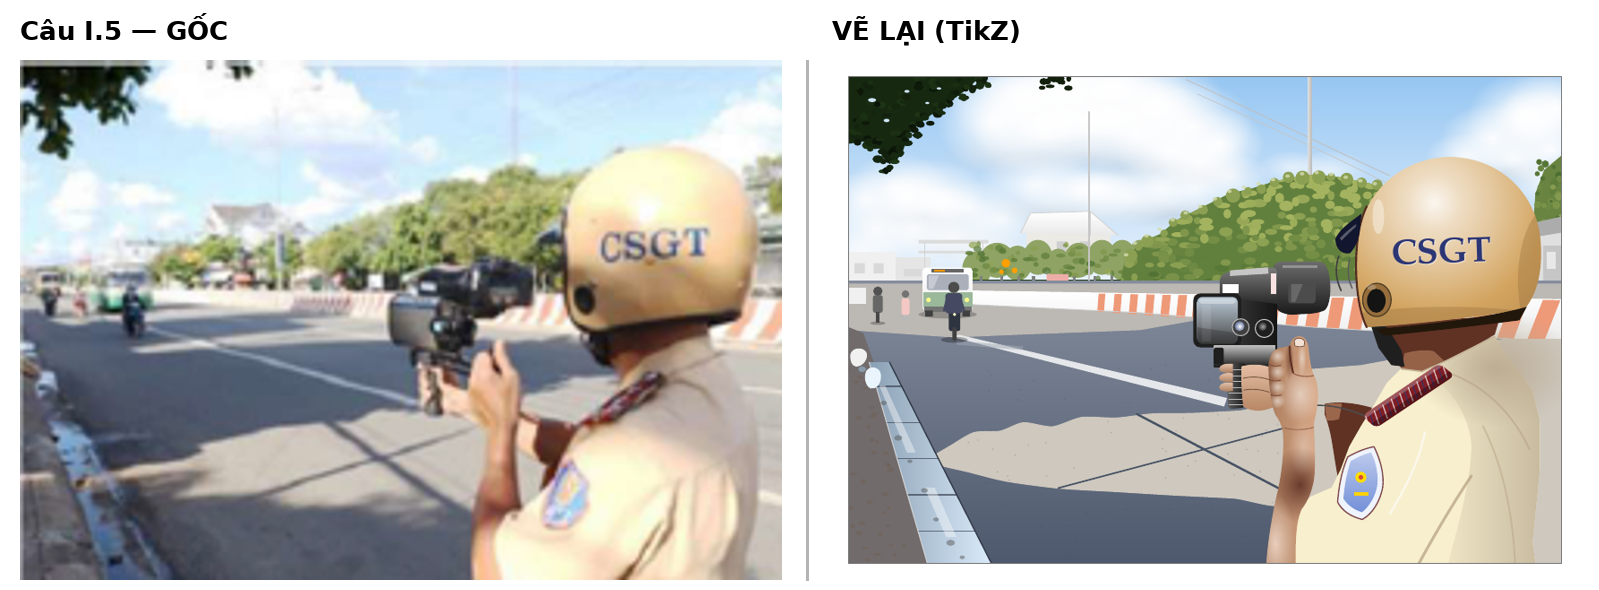
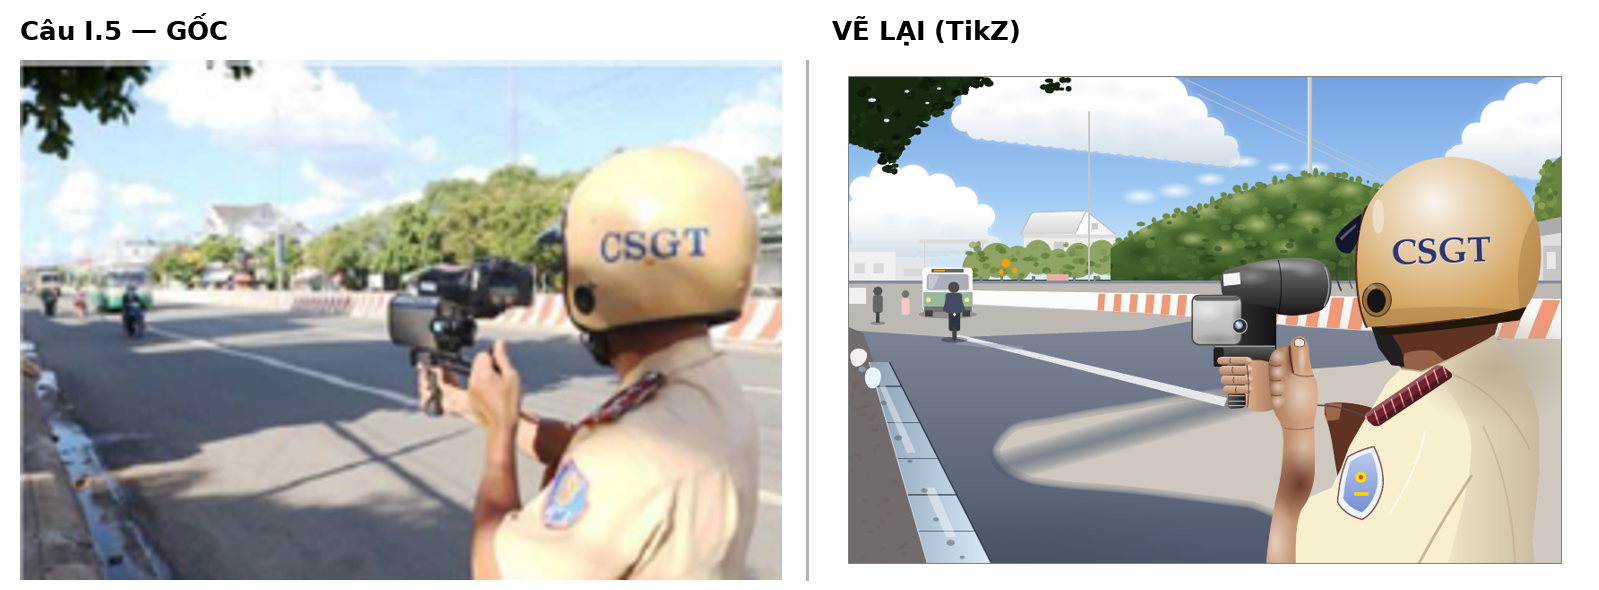
Lưu tạm: Hải Phòng SGD Lần 2 I.5 đang sửa vòng 2 (chưa soát)
Claude-Session: https://claude.ai/code/session_01Mieh5KpSQ7eqWTJmHU52fM

diff --git a/de/VatLi2026-HaiPhong-SoGD-Lan2/VatLi2026-HaiPhong-SoGD-Lan2.tex b/de/VatLi2026-HaiPhong-SoGD-Lan2/VatLi2026-HaiPhong-SoGD-Lan2.tex
@@ -32,6 +32,15 @@
 \definecolor{HPhaido}{RGB}{128,30,36}
 % mũ bảo hiểm bóng (I.5): đổ bóng tròn nhiều nấc, tâm là điểm sáng, gọi \shade[shading=HPhaimuSh] (tâm) circle (bán kính);
 \pgfdeclareradialshading{HPhaimuSh}{\pgfpoint{0bp}{0bp}}{color(0bp)=(white!90!HPhaimu); color(4bp)=(white!62!HPhaimu); color(9bp)=(HPhaimu!62!white); color(16bp)=(HPhaimu); color(28bp)=(HPhaimu!82!brown!86!black); color(50bp)=(HPhaimu!55!brown!62!black)}
+% mây tích (I.5): \HPhaimaytich{y đỉnh}{y đáy}{x/y/r,...}: các bọng tròn tâm (x,y) bán kính r (toạ độ điểm ảnh) hợp thành đám mây trắng, quầng mờ ra trời, bọng lớn có bóng nhẹ, đáy xám xanh nhạt
+\newcommand{\HPhaimaytich}[3]{%
+	\foreach \x/\y/\r in {#3}{\fill[white,path fading=HPhaimo,opacity=0.5] (\x,\y) circle (1.5*\r);}%
+	\begin{scope}
+		\clip foreach \x/\y/\r in {#3}{(\x,\y) circle (1.06*\r)};
+		\fill[white] (-20,{#1-12}) rectangle (270,{#2+12});
+		\foreach \x/\y/\r in {#3}{\pgfmathsetmacro{\HPhaiop}{(\r>5.9)*0.3}\fill[gray!22!HPhaitroi!35!white,path fading=HPhaimo,opacity=\HPhaiop] (\x+0.35*\r,\y+0.6*\r) ellipse[x radius=0.9*\r,y radius=0.5*\r];}%
+		\fill[gray!35!HPhaitroi!48!white,path fading=north] (-20,{#1+0.5*(#2-#1)}) rectangle (270,{#2+1});
+	\end{scope}}
 % màu câu I.14: thảm vải xám tím, da tay, màn hình (hồng tím, đỏ cam, xanh lam)
 \definecolor{HPhaitham}{RGB}{138,124,134}
 \definecolor{HPhaitay}{RGB}{238,204,194}
@@ -118,15 +127,14 @@
 				\pgfmathsetseed{1405}
 				\begin{scope}
 					\clip (0,0) rectangle (245,167);
-					% ===== trời, mây (toạ độ theo điểm ảnh gốc 245 x 167, trục y hướng xuống)
-					\shade[top color=HPhaitroi,bottom color=HPhaitroi!8!white] (0,0) rectangle (245,82);
-					% mây: các vệt trắng mờ dần ra mép (đáy mây xám xanh nhạt)
-					\foreach \x/\y/\a/\b in {58/27/13/4,82/25/14/4,104/30/12/4,122/33/9/3,24/49/11/3.5,40/57/10/3,110/46/12/3,70/46/14/3,228/32/10/3}
-						{\fill[HPhaitroi!60!gray!50!white,path fading=HPhaimo,opacity=0.8] (\x,\y) ellipse[x radius=2*\a,y radius=2*\b];}
-					\foreach \x/\y/\a/\b/\o in {50/15/10/9/1,60/7/13/10/1,75/3/14/10/1,91/3/13/9/1,105/9/12/9/1,117/17/11/8/1,127/23/8/6/1,66/18/12/8/1,83/15/13/8/1,99/19/12/7/1,111/25/10/6/1,121/29/8/4.5/0.9,64/37/10/6/0.85,80/39/11/6/0.85,95/41/10/5/0.8,107/38/9/5/0.8,119/38/9/5/0.8,131/34/7/4/0.75,6/42/7/5/0.9,17/38/9/6/0.9,29/40/9/6/0.9,41/45/8/5/0.85,52/49/7/4/0.8,9/52/9/6/0.85,22/52/10/6/0.85,35/55/9/5/0.8,47/58/8/4/0.75,4/60/7/4/0.75,212/27/7/4/0.85,221/21/9/6/0.95,232/14/10/8/1,243/11/9/8/1,241/25/9/6/0.95,228/28/8/4/0.85,240/36/8/4/0.8,152/31/6/3/0.6,165/32/7/3.5/0.6}
-						{\fill[white,path fading=HPhaimo,opacity=\o] (\x,\y) ellipse[x radius=2*\a,y radius=2*\b];}
-					\foreach \x/\y/\a/\b in {62/8/9/6,77/5/10/6,92/5/9/5,106/11/8/5,72/15/9/4,90/14/9/4,20/41/6/4,32/43/6/3,235/14/7/5,85/38/7/3}
-						{\fill[white,path fading=HPhaimo] (\x,\y) ellipse[x radius=2*\a,y radius=2*\b];}
+					% ===== trời: xanh đậm ở trên, nhạt dần về chân trời (toạ độ theo điểm ảnh gốc 245 x 167, trục y hướng xuống)
+					\shade[top color=HPhaitroi!62!VLxanh,bottom color=HPhaitroi!6!white,middle color=HPhaitroi!92!white] (0,0) rectangle (245,82);
+					% mây tích: đám lớn trên giữa, đám bên trái, đám bên phải, vài cụm nhỏ
+					\HPhaimaytich{-10}{31}{40/14/4.5,45/8/6,52/3/7.5,62/0/8.5,74/-2/9,87/-1/9,99/2/8,109/7/7,117/13/6,124/19/4.8,130/24/3.6,49/13/5.5,59/11/7,71/9/8,84/9/8.5,96/12/7.5,107/16/6.5,116/20/5,62/17/5,74/16/6,86/16/6.5,98/18/6,108/21/5.5,44/18.1/3.2,48/18.5/3.2,51.9/19/3.2,55.9/19.4/3.2,59.8/19.8/3.2,63.8/20.3/3.2,67.7/20.7/3.2,71.7/21.1/3.2,75.6/21.6/3.2,79.6/22/3.2,83.5/22.4/3.2,87.5/22.9/3.2,91.5/23.3/3.2,95.4/23.7/3.2,99.4/24.1/3.2,103.3/24.6/3.2,107.3/25/3.2,111.2/25.4/3.2,115.2/25.9/3.2,119.1/26.3/3.2,123.1/26.7/3.2,127/27.2/3.2,131/27.6/3.2,67.5/17.0/0.8,120.9/23.2/1.2,125.7/23.8/1.0}
+					\HPhaimaytich{30}{64}{5/39/4.5,13/35/5.5,22/36/5.5,31/39/5.5,39/43/5,46/48/4,3/48/5.5,12/45/6.5,23/46/6.5,34/49/6,43/53/4.5,6/54/5,16/54/5.5,27/55/5.5,38/56/4.5,-2/60.8/3,1.9/60.5/3,5.8/60.3/3,9.8/60.1/3,13.7/59.8/3,17.6/59.6/3,21.5/59.4/3,25.5/59.1/3,29.4/58.9/3,33.3/58.7/3,37.2/58.4/3,41.2/58.2/3,45.1/58/3,49/57.8/3,17.4/40.2/1.6,41.0/48.2/1.4,47.5/54.8/0.6,32.9/55.3/0.6,10.6/56.8/0.7,10.9/57.0/0.6}
+					\HPhaimaytich{0}{37}{210/27/3.5,216/21/5,224/15/6.5,233/10/7.5,243/8/8,221/26/5,231/22/6.5,242/20/7.5,236/29/5,208/27.8/3,211.9/28.4/3,215.8/28.9/3,219.7/29.6/3,223.6/30.1/3,227.5/30.8/3,231.4/31.4/3,235.3/32/3,239.2/32.5/3,243.1/33.1/3,247/33.8/3,211.1/23.4/0.6,226.3/27.4/0.9,226.0/27.8/0.6}
+					\foreach \x/\y/\a/\b in {100/41/7/3,112/39/7/3,124/35/6/2.6,136/29/6/2.4,148/31/5/2,160/31/6/2.2}
+						{\fill[white,path fading=HPhaimo,opacity=0.85] (\x,\y) ellipse[x radius=\a,y radius=\b];}
 					% dây điện, cột điện
 					\draw[gray!50,line width=0.3pt] (116,1) .. controls (140,12) and (160,22) .. (186,34);
 					\draw[gray!45,line width=0.25pt] (120,6) .. controls (142,16) and (162,25) .. (186,37);
@@ -137,11 +145,14 @@
 					\fill[gray!30] (2,64) rectangle (5.5,67.5) (8.5,64) rectangle (12,67.5) (19,66) rectangle (25,68.5);
 					\fill[gray!28] (24,56) rectangle (48,57.2) (24,59.8) rectangle (48,60.6);
 					\draw[gray!35,line width=0.3pt] (26,57.2)--(26,72) (46,57.2)--(46,72);
-					% nhà mái trắng
-					\fill[HPhaiao!50!gray!30!white] (61,53) rectangle (90,64);
-					\fill[gray!38] (64,56.5) rectangle (67.5,60.5) (71.5,56.5) rectangle (75,60.5) (79.5,56.5) rectangle (83,60.5);
-					\shade[top color=white,bottom color=gray!18] (59,53.6)--(62.5,46.8)--(83,46.2)--(92.5,54.4)--(83,54.4)--cycle;
-					\draw[gray!35,line width=0.3pt] (59,53.6)--(62.5,46.8)--(83,46.2)--(92.5,54.4) (83,46.2)--(83,54.4);
+					% nhà mái trắng có đầu hồi
+					\fill[HPhaiao!40!gray!22!white] (60,53.8) rectangle (91.6,63.5);
+					\fill[gray!40] (63.5,56.6) rectangle (67,60.6) (70.5,56.6) rectangle (74,60.6) (83.6,56.6) rectangle (87.2,60.6);
+					\shade[top color=white!94!gray,bottom color=gray!34] (63,46.6)--(81.6,46)--(77.8,54)--(59,54.2)--cycle;
+					\shade[left color=white,right color=gray!14] (81.6,46)--(91.8,54.2)--(77.8,54)--cycle;
+					\fill[gray!42] (83.4,50.4) rectangle (85.6,52.4);
+					\draw[gray!55,line width=0.3pt] (59,54.2)--(63,46.6)--(81.6,46)--(91.8,54.2) (81.6,46)--(77.8,54);
+					\fill[gray!35,opacity=0.6] (59,54.2)--(91.8,54.2)--(91.6,55.4)--(59.4,55.4)--cycle;
 					% hàng cây xa bên trái
 					\foreach \x/\y/\a/\b in {44/66/5/6,51/63/6/6,58/64/5/6,65/62/5/6,72/64/4/5,79/63/5/6,87/62/5/6,94/63/5/7,100/62/4/6}
 						{\fill[HPhaila!40!HPhailasang!85!white] (\x,\y) ellipse[x radius=\a,y radius=\b];}
@@ -152,16 +163,25 @@
 					\foreach \x in {45,52,58,63,70,77,84,90,96,102}{\fill[black!50] (\x,68.5) rectangle (\x+1,74);}
 					\fill[VLdo!45!white] (68,67.8) rectangle (75.5,72) (100,68.5) rectangle (105,72);
 					\fill[white!90!gray] (114,67.5) rectangle (122,73);
-					% khối cây lớn phía sau súng
+					% dải cây rậm phía sau súng (từ giữa ảnh tới sau mũ): mép trên lởm chởm, xanh đậm có mảng sáng
+					\pgfmathsetseed{2207}
 					\begin{scope}
-						\clip (92,76)--(95,63)--(100,57)--(107,54)--(113,49)--(119,46)--(125,43)--(131,40)--(138,38.5)--(146,36)--(153,34.5)--(161,33.5)--(169,34.5)--(176,36)--(186,38)--(186,76)--cycle;
-						\fill[HPhaila!60!HPhailasang] (90,30) rectangle (188,77);
-						\foreach \i in {1,...,340}{\pgfmathsetmacro{\px}{91+96*rnd}\pgfmathsetmacro{\py}{32+45*rnd}
-							\pgfmathtruncatemacro{\t}{max(5,min(95,118-1.9*(\py-33)+50*(rnd-0.5)))}
-							\fill[HPhailasang!\t!HPhaila] (\px,\py) ellipse[x radius=1.1+1.5*rnd,y radius=0.8+1*rnd];}
+						\clip (90,77)--(90,59)--(93,57)--(96,55.4)--(100,52.6)--(104,50.6)--(108,48.8)--(112,47.6)--(116,46.6)--(120,45.6)--(124,43.6)--(128,41.6)--(132,40.2)--(136,39.2)--(140,38.2)--(145,36.8)--(150,35.4)--(155,34.2)--(160,33.6)--(165,34)--(170,35)--(175,36.4)--(180,38)--(188,40)--(188,77)--cycle;
+						\fill[HPhaila!72!HPhailasang] (88,30) rectangle (190,78);
+						\foreach \x/\y/\a/\b in {100/60/8/5,116/56/9/5,132/52/9/6,148/48/10/6,164/46/9/6,180/50/8/6,108/70/9/4,126/68/10/4,146/66/10/5,166/64/10/5,140/58/6/4,158/57/6/4,122/62/6/3.5}
+							{\fill[HPhaila!55!black,path fading=HPhaimo,opacity=0.55] (\x,\y) ellipse[x radius=\a,y radius=\b];}
+						\foreach \i in {1,...,320}{\pgfmathsetmacro{\px}{89+100*rnd}\pgfmathsetmacro{\py}{32+46*rnd}\pgfmathtruncatemacro{\t}{20+35*rnd}
+							\fill[HPhailasang!\t!HPhaila,opacity=0.7] (\px,\py) ellipse[x radius=0.9+1.4*rnd,y radius=0.7+0.9*rnd];}
+						\foreach \x/\y/\a/\b in {103/54/6/3.5,113/50/7/4,124/47/7/4,136/43/8/4.5,149/39/9/4.5,162/37/8/4,174/40/6/3.5,120/57/6/3,142/52/7/3.5,160/50/7/3.5,131/60/5/3,152/60/5/3,176/54/5/3.5}
+							{\fill[HPhailasang!82!white,path fading=HPhaimo,opacity=0.8] (\x-2,\y-1.5) ellipse[x radius=\a,y radius=\b];}
+						\foreach \i in {1,...,45}{\pgfmathsetmacro{\px}{89+100*rnd}\pgfmathsetmacro{\py}{44+32*rnd}
+							\fill[HPhaila!75!black,opacity=0.55] (\px,\py) ellipse[x radius=0.7+0.9*rnd,y radius=0.5+0.6*rnd];}
+						\fill[HPhaila!45!black,path fading=north,opacity=0.6] (88,56) rectangle (190,78);
 					\end{scope}
-					\foreach \x/\y in {96/62,99/58,103/55.5,107.5/53.2,112/50,116.5/47.6,121.5/45.4,126.5/42.8,131.5/40.2,136.5/38.8,141.5/37.6,146.5/36.2,151.5/35,156.5/34.2,161.5/33.8,166.5/34.4,171.5/35.4,176.5/36.6,181.5/37.6}
-						{\fill[HPhailasang!75!HPhaila] (\x+2*rnd-1,\y+1.5*rnd-0.5) circle (1.2+1.3*rnd);\fill[HPhailasang!50!white,opacity=0.8] (\x-0.7,\y-0.9) ellipse[x radius=0.8,y radius=0.6];}
+					% mép trên lởm chởm: chùm lá nhô lên khỏi tán
+					\foreach \x/\y in {93/56.6,97/54.4,101/51.8,105/50,109/48.4,113/47.2,117/46.2,121/45,125/43,129/41.2,133/39.8,137/38.8,141/37.8,146/36.4,151/35,156/34,161/33.6,166/34.2,171/35.2,176/36.6,181/38.2,186/39.4}
+						{\fill[HPhaila!50!HPhailasang] (\x+1.6*rnd-0.8,\y-0.3-1.1*rnd) ellipse[x radius=0.7+0.9*rnd,y radius=0.8+1*rnd];
+						 \fill[HPhaila!58!HPhailasang] (\x+1.6+1.2*rnd,\y-0.1-0.7*rnd) circle (0.5+0.5*rnd);}
 					% cây, nhà bên phải mũ
 					\fill[HPhaila!55!HPhailasang] (235,54)--(236,40)--(239,32)--(245,27)--(245,54)--cycle;
 					\foreach \i in {1,...,30}{\pgfmathsetmacro{\px}{236+9*rnd}\pgfmathsetmacro{\py}{29+24*rnd}\pgfmathtruncatemacro{\t}{20+60*rnd}\fill[HPhailasang!\t!HPhaila] (\px,\py) circle (0.6+0.9*rnd);}
@@ -172,6 +192,7 @@
 					% cột đèn bên đường
 					\draw[gray!45,line width=0.5pt] (82.6,12)--(82.6,74);
 					% tán cây góc trái phía trên
+					\pgfmathsetseed{1406}
 					\fill[HPhaila!45!black] (0,0)--(45,0)--(41,4)--(34,9)--(27,14)--(21,19)--(18,27)--(14,30)--(11,25)--(6,22)--(0,23)--cycle;
 					\foreach \x/\y in {1/21,5/22,9/23.5,12/27,14/30.5,16/26,18/21.5,22/18,26/14.5,30/11.5,34/8.5,38/5.5,42/2.5,46/1,30/3,20/7,9/10,4/15,25/2,36/1,15/12,6/4}
 						{\foreach \j in {1,...,7}{\pgfmathtruncatemacro{\t}{22+38*rnd}\fill[HPhaila!\t!black] (\x+4.4*rnd-2.2,\y+4.4*rnd-2.2) ellipse[x radius=0.8+1.1*rnd,y radius=0.6+0.8*rnd];}}
@@ -189,12 +210,16 @@
 					\end{scope}
 					\draw[gray!40,line width=0.3pt] (38,78)--(100,81)--(160,86)--(245,91);
 					\draw[white,line width=0.4pt] (38,73.5)--(100,74.5)--(160,75.5)--(245,76.5);
-					% vệt nắng, bóng cây trên mặt đường
-					\fill[HPhaiduongsang] plot[smooth cycle,tension=0.45] coordinates {(28,131) (35,126.5) (43,122) (52,121.5) (60,118.6) (70,120) (80,116.8) (92,117) (104,115.6) (118,115.4) (134,114.6) (152,113.4) (152,146) (132,144.8) (112,143.8) (92,142.6) (72,141.4) (54,139) (41,135.8) (31,133.4)};
+					% vệt nắng giữa đường (mép mềm), dải bóng cây rộng chéo qua vệt nắng (mép mềm), mảng bóng lớn góc dưới trái
 					\fill[HPhaiduongsang] (150,101)--(176,99)--(225,90)--(245,90)--(245,167)--(150,167)--cycle;
-					\draw[HPhaiduong!85!black,line width=0.8pt] (99,115.8)--(152,143.5);
-					\draw[HPhaiduong!85!black,line width=0.55pt] (72,141.2)--(152,120);
-					\foreach \i in {1,...,70}{\fill[HPhaiduong!70!black,opacity=0.2] (40+110*rnd,92+75*rnd) circle (0.3);}
+					\foreach \w in {0.4,0.8,...,6}
+						{\draw[HPhaiduongsang,line width=\w pt,opacity=0.12] plot[smooth cycle,tension=0.5] coordinates {(52,128) (58,121.4) (70,119.2) (82,116.8) (96,114.6) (110,112.2) (124,110) (138,108.4) (154,107.4) (154,148) (138,145.6) (122,143.6) (106,141.6) (90,140) (76,139) (63,137.2) (55,133.4)};}
+					\fill[HPhaiduongsang] plot[smooth cycle,tension=0.5] coordinates {(52,128) (58,121.4) (70,119.2) (82,116.8) (96,114.6) (110,112.2) (124,110) (138,108.4) (154,107.4) (154,148) (138,145.6) (122,143.6) (106,141.6) (90,140) (76,139) (63,137.2) (55,133.4)};
+					\begin{scope}
+						\clip plot[smooth cycle,tension=0.5] coordinates {(49,128) (56,119) (70,116.4) (82,114) (96,111.8) (110,109.4) (124,107.2) (138,105.6) (157,104.4) (157,151) (138,148.6) (122,146.6) (106,144.6) (90,143) (75,142) (61,140) (51,135)};
+						\foreach \w in {1,2,...,12}{\draw[HPhaiduong,line width=\w pt,opacity=0.075] (38,138) .. controls (78,127) and (114,117) .. (152,106);}
+					\end{scope}
+					\fill[HPhaiduong!78!black,path fading=HPhaimo,opacity=0.45] (60,167) ellipse (64 and 24);
 					% vạch sơn
 					\fill[white!85!HPhaiduong] (35,89.2)--(38,88.6)--(130,110.3)--(129,113.2)--cycle;
 					\fill[white!45!HPhaiduong,opacity=0.5] (37,90.6)--(60,92.6)--(59.5,93.8)--(37,92)--cycle;
@@ -238,38 +263,39 @@
 					\fill[VLdo!30!white,rounded corners=0.6pt] (18.1,76) rectangle (20.9,81.8);
 					\fill[black!55] (19.5,74.6) circle (1.3);
 					% ===== súng bắn tốc độ
-					% hộp lớn phía sau
-					\shade[top color=black!58,bottom color=black!90,rounded corners=2.5pt] (146,63.5)--(160,63.4) .. controls (166.2,64) and (166.6,79) .. (161,81.2)--(150,81.8)--(146,79.2)--cycle;
-					\fill[gray!60!black,rounded corners=1pt] (151,70.6) rectangle (160.4,77.8);
-					\fill[white,opacity=0.16] (152,71.2)--(156,71.2)--(153.5,77.2)--(152,77.2)--cycle;
-					\fill[white,opacity=0.3] (149,64.6) rectangle (161,65.8);
-					% ống ngắm, khối trên
-					\shade[top color=black!52,bottom color=black!88,rounded corners=1.5pt] (127.5,68.5)--(131,66.6)--(144,65.5)--(147.2,65.5)--(147.2,79.6)--(135,76.6)--(127.5,75.6)--cycle;
-					\fill[gray!45!white] (131,66.5)--(144,65.4)--(144.3,67.6)--(131,68.4)--cycle;
-					\fill[white] (128.4,71.2) rectangle (134,74.4);
-					\fill[white!85!VLdo] (145.2,67.5) rectangle (146.8,74.6);
-					% thân giữa
-					\shade[left color=black!78,right color=black!92] (131,76)--(147.2,78)--(147.2,93.6)--(131,93.6)--cycle;
-					% đầu phát (mặt trước)
-					\fill[black!88,rounded corners=2.6pt] (118.4,74.4) rectangle (134.9,92.9);
-					\shade[top color=gray!50!HPhaitroi!60!white,bottom color=gray!55!black,rounded corners=2pt] (119.7,75.6) rectangle (133.7,91.7);
-					\fill[white,opacity=0.35,rounded corners=1pt] (120.4,76.2) rectangle (133,77.9);
-					\fill[white,opacity=0.1] (121.5,78.2) rectangle (124.6,91);
-					\fill[black,opacity=0.2] (119.7,86)--(133.7,88)--(133.7,91.7)--(119.7,91.7)--cycle;
-					% ống kính, núm
-					\filldraw[fill=black!75,draw=gray!55,line width=0.35pt] (134.7,86) circle (2.9);
-					\shade[inner color=white,outer color=VLxanh!40!gray] (134.3,85.6) circle (1.7);
-					\filldraw[fill=black!88,draw=gray!45,line width=0.35pt] (142.8,86.4) circle (3.1);
-					\shade[inner color=gray!70,outer color=black!80] (142.2,85.7) circle (1.5);
+					% vỏ ống ngắm đen lớn trên nóc (bo tròn, kéo tới sát mũ)
+					\shade[top color=black!52,bottom color=black!92] (128,72) .. controls (127.4,69.6) and (127.8,67.4) .. (129.6,66.4) .. controls (134,65.2) and (138,64) .. (142,63.2) .. controls (148,62.2) and (154,61.8) .. (159,62.4) .. controls (163,63) and (165.4,65.6) .. (165.8,69.4) .. controls (166.2,73.6) and (165.4,77.6) .. (162.6,80) .. controls (158,82) and (152,82.4) .. (147,81.4) .. controls (141,80) and (135,78.4) .. (130.4,77) .. controls (128.6,76.2) and (128,74.4) .. (128,72)--cycle;
+					\fill[white,path fading=HPhaimo,opacity=0.45] (148,64.6) ellipse (13 and 2.2);
+					\fill[gray!60,path fading=HPhaimo,opacity=0.5] (138,68.6) ellipse (7 and 3.2);
+					\fill[gray!55,path fading=HPhaimo,opacity=0.55] (157,66) ellipse (6 and 3);
+					\draw[gray!45,line width=0.45pt,opacity=0.7] (163.6,65.4) .. controls (165.4,68.6) and (165.6,74.6) .. (163.4,78.6);
+					\draw[black,line width=0.4pt,opacity=0.6] (147.6,63) .. controls (149,68) and (149,75) .. (147.6,81.2);
+					\fill[white!92!gray] (128.7,67.8)--(134.4,67.2)--(134.6,71.2)--(128.9,71.8)--cycle;
+					% thân đen phía sau hộp phát
+					\shade[left color=black!80,right color=black!93] (132,77)--(147,79.5)--(147.2,98.6)--(132,98.6)--cycle;
+					% hộp phát (kính xám sáng) hướng sang trái
+					\shade[top color=gray!28,bottom color=gray!62,rounded corners=2.6pt,draw=black!72,line width=0.5pt] (118,75) rectangle (135,92);
+					\fill[white,path fading=HPhaimo,opacity=0.55] (123,80) ellipse (6 and 4.4);
+					\fill[black,path fading=HPhaimo,opacity=0.18] (127,90) ellipse (9 and 2.4);
+					\fill[black!60,rounded corners=1.2pt] (118.6,75.3) rectangle (134.4,76.9);
+					\fill[black,path fading=HPhaimo,opacity=0.35] (134,84) ellipse (2.6 and 9);
+					% ống kính tròn nhỏ có ánh xanh
+					\filldraw[fill=black!82,draw=gray!50,line width=0.35pt] (134.4,85.6) circle (2.5);
+					\shade[inner color=white,outer color=VLxanh!55!gray] (134,85.2) circle (1.5);
+					\fill[white] (133.5,84.6) circle (0.45);
 					% giá đỡ, cò, báng cầm
-					\shade[top color=gray!55,bottom color=black!90] (125.5,92.4) rectangle (146.6,99.6);
+					\shade[top color=black!62,bottom color=black!92] (125.6,92.2) rectangle (146.6,99.4);
+					\draw[gray!55,line width=0.3pt,opacity=0.8] (126,92.6)--(146.2,92.6);
 					\fill[black!88,rounded corners=0.6pt] (125.4,93) rectangle (128.9,98.8);
 					\shade[left color=black!62,right color=black!92,rounded corners=1.2pt] (129.8,98.4)--(136.7,98.4)--(136.3,113.6)--(130.4,114.1)--cycle;
-					\foreach \y in {100.6,102.6,...,112.6}{\draw[gray!50,line width=0.3pt] (130.6,\y)--(136,\y);}
-					% bàn tay phải nắm báng
-					\shade[top color=HPhaida!65!white,bottom color=HPhaida!85!black] (135,99.4) .. controls (138.5,98.5) and (142,98.6) .. (145.5,100)--(145.5,113.6) .. controls (141.5,115.2) and (138,114.8) .. (135.6,113.2) .. controls (135,109) and (134.8,104) .. (135,99.4)--cycle;
-					\draw[HPhaida!55!black,line width=0.3pt] (135.6,103.5) .. controls (138.5,102.8) and (141.5,103) .. (144.5,104) (135.7,107.6) .. controls (138.5,107) and (141.5,107.3) .. (144.5,108.3);
-					\foreach \y in {98.6,101.8,105}{\shade[top color=HPhaida!60!white,bottom color=HPhaida!78!black] (132,\y) .. controls (129.5,\y-0.3) and (127.4,\y+0.3) .. (127.3,\y+1.6) .. controls (127.3,\y+2.9) and (129.5,\y+3.2) .. (132,\y+2.9)--cycle;}
+					\foreach \y in {109.6,111.2,112.8}{\draw[gray!50,line width=0.3pt] (130.6,\y)--(136,\y);}
+					% bàn tay nắm báng: lưng bàn tay, khớp ngón, các ngón quấn quanh báng (ngón trỏ đặt ở cò)
+					\shade[left color=HPhaida!80!white,right color=HPhaida!80!black] (136.4,97.6) .. controls (140,96.8) and (143.6,97.2) .. (146,98.8)--(146,114.2) .. controls (142.6,115.6) and (139,115.2) .. (136.8,113.4) .. controls (136,108) and (135.8,102.6) .. (136.4,97.6)--cycle;
+					\foreach \y/\h/\l in {96.2/2.6/126.6,99.2/3.1/127.4,102.6/3.1/127.8,106/2.9/128.6}
+						{\shade[top color=HPhaida!70!white,bottom color=HPhaida!78!black,rounded corners=1.3pt] (\l,\y) rectangle (138.4,\y+\h);
+						 \draw[HPhaida!45!black,line width=0.25pt] (\l+4.6,\y+0.5) .. controls (\l+4.2,\y+1.2) and (\l+4.2,\y+\h-1.2) .. (\l+4.6,\y+\h-0.5);
+						 \fill[white,path fading=HPhaimo,opacity=0.55] (137.6,\y+0.9) ellipse (1.4 and 1);}
+					\draw[HPhaida!40!black,line width=0.3pt] (136.8,99) .. controls (137.6,104) and (137.6,109) .. (137,113.4);
 					% ===== cảnh sát giao thông
 					% cẳng tay phải (trong bóng, giữa hai tay)
 					\fill[HPhaidatoi] (163.6,112.3) .. controls (168,111.4) and (174,111.8) .. (181,114)--(182,119) .. controls (179,121) and (176,125) .. (173.5,130) .. controls (172,134) and (171,138) .. (169,141.5) .. controls (167.8,137) and (167,131) .. (166,125) .. controls (165.3,121) and (164.4,118) .. (163.6,116)--cycle;
